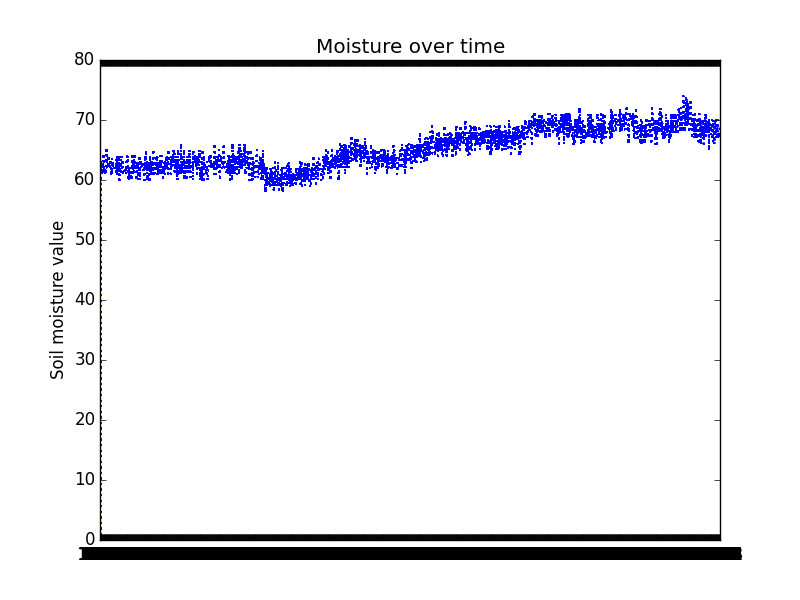
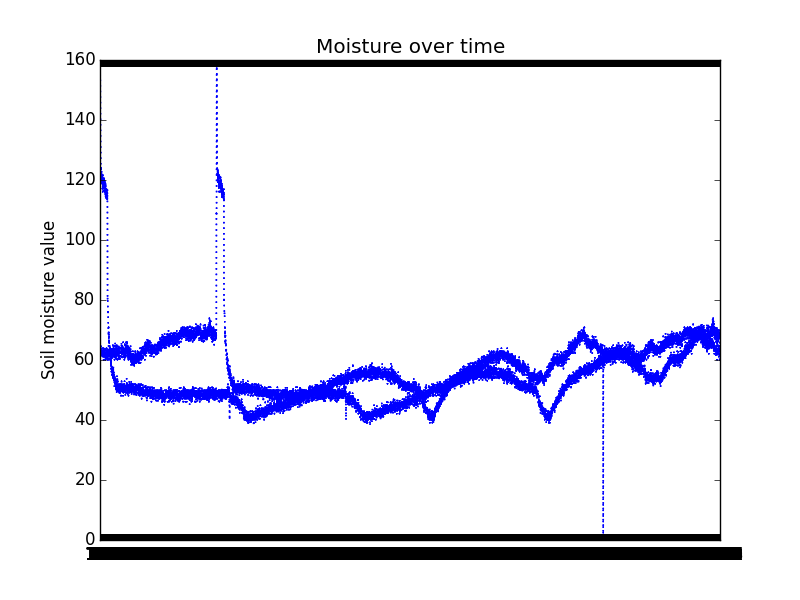
changed graph

diff --git a/graph.py b/graph.py
@@ -19,16 +19,12 @@ def plot(pollCount):
         for row in content:
             tmpStr = row.split(" ")
             try:
-                xDates.append(tmpStr[0])
+                xDates.append(tmpStr[1])
             except:
+                y.append(float(tmpStr[0]))
                 xDates.append("")
-            try:
-                y.append(float(tmpStr[1]))
-            except:
-                try:
-                    y.append(float(tmpStr[0]))
-                except:
-                    y.append(0)
+            y.append(float(tmpStr[1]))
+
     x = []
     for i in range(len(xDates)):
 	    x.append(i)
